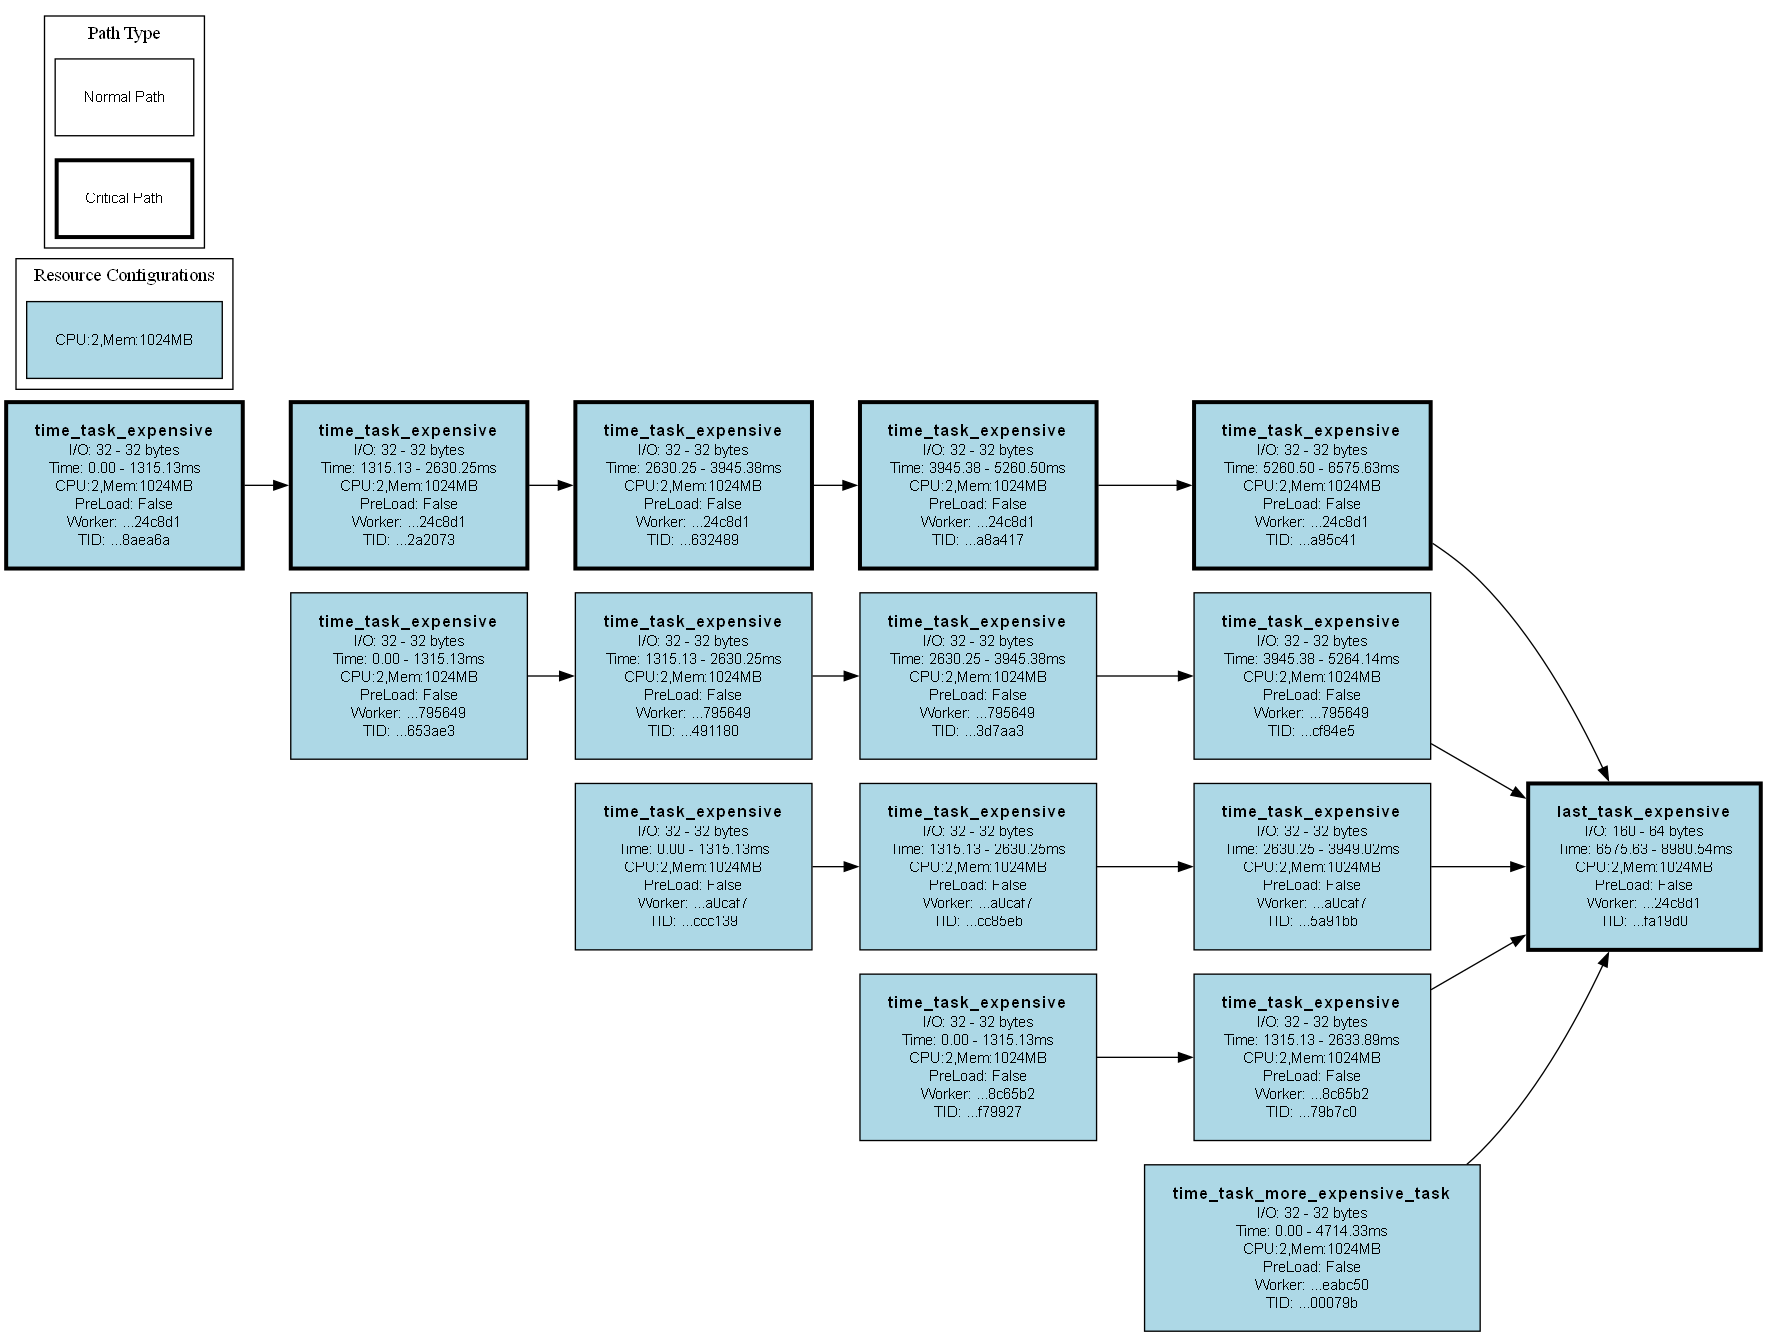
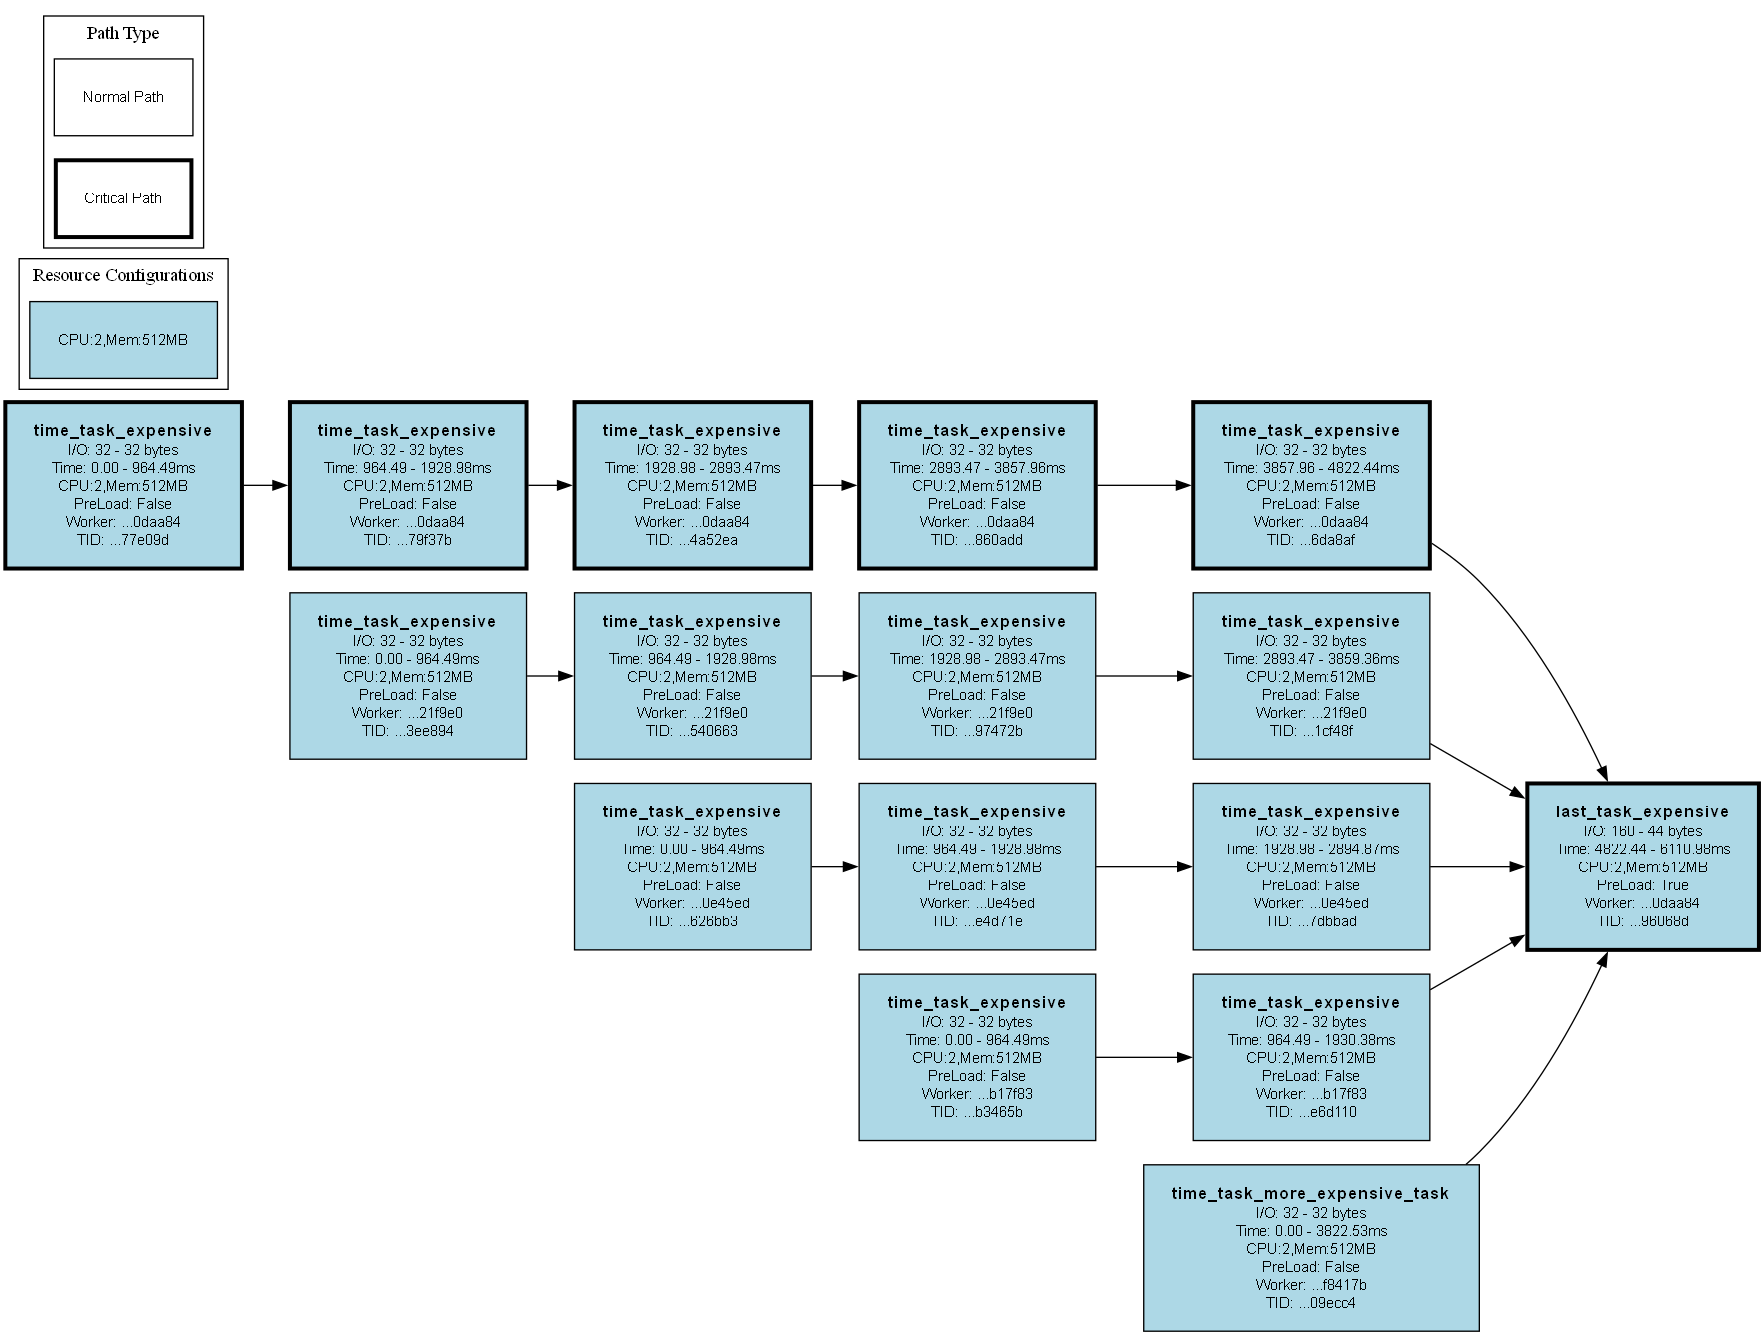
small refactor

diff --git a/src/planning/abstract_dag_planner.py b/src/planning/abstract_dag_planner.py
@@ -124,7 +124,7 @@ class AbstractDAGPlanner(ABC, WorkerExecutionLogic):
 
         return total_input_size
     
-    def __calculate_node_timings_for_node(self, nodes_info: dict[str, PlanningTaskInfo], node: DAGTaskNode, resource_config: TaskWorkerResourceConfiguration, metadata_access: MetadataAccess, sla: SLA):
+    def __calculate_node_timings(self, nodes_info: dict[str, PlanningTaskInfo], node: DAGTaskNode, resource_config: TaskWorkerResourceConfiguration, metadata_access: MetadataAccess, sla: SLA):
         node_id = node.id.get_full_id()
         worker_id = node.get_annotation(TaskWorkerResourceConfiguration).worker_id
         total_input_size = self._calculate_total_input_size(node, nodes_info)
@@ -192,7 +192,7 @@ class AbstractDAGPlanner(ABC, WorkerExecutionLogic):
         nodes_info: dict[str, AbstractDAGPlanner.PlanningTaskInfo] = {}
         for node in topo_sorted_nodes:
             # note: modifies `nodes_info`
-            self.__calculate_node_timings_for_node(nodes_info, node, resource_config, metadata_access, sla)
+            self.__calculate_node_timings(nodes_info, node, resource_config, metadata_access, sla)
             
         return nodes_info
     
@@ -205,7 +205,7 @@ class AbstractDAGPlanner(ABC, WorkerExecutionLogic):
         for node in topo_sorted_nodes:
             resource_config = node.get_annotation(TaskWorkerResourceConfiguration)
             # note: modifies `nodes_info`
-            self.__calculate_node_timings_for_node(nodes_info, node, resource_config, metadata_access, sla)
+            self.__calculate_node_timings(nodes_info, node, resource_config, metadata_access, sla)
 
         return nodes_info
     

diff --git a/_examples/original/dagforpredictions_expensive_computations.py b/_examples/original/dagforpredictions_expensive_computations.py
@@ -31,10 +31,9 @@ dockerWorkerConfig = DockerWorker.Config(
     docker_gateway_address="http://localhost:5000",
     intermediate_storage_config=redis_intermediate_storage_config,
     metrics_storage_config=MetricsStorage.Config(storage_config=redis_metrics_storage_config),
-    planner_config=SimplePlannerAlgorithm.Config(
+    planner_config=FirstPlannerAlgorithm.Config(
         sla="avg",
-        all_flexible_workers=False,
-        worker_resource_configuration=TaskWorkerResourceConfiguration(cpus=2, memory_mb=1024),
+        worker_resource_configuration=TaskWorkerResourceConfiguration(cpus=2, memory_mb=512),
         # worker_resource_configuration=TaskWorkerResourceConfiguration(cpus=2, memory_mb=256),
         # available_worker_resource_configurations=[
         #     TaskWorkerResourceConfiguration(cpus=2, memory_mb=256),

diff --git a/src/planning/first_planner_algorithm.py b/src/planning/first_planner_algorithm.py
@@ -161,7 +161,7 @@ class FirstPlannerAlgorithm(AbstractDAGPlanner):
         logger.info(f"Critical Path | Nr. Nodes: {len(final_critical_path_nodes)}, Predicted Completion Time: {final_critical_path_time} ms")
         logger.info(f"Number of PreLoad optimizations: {total_preload_optimizations}")
         logger.info(f"Number of unique workers: {len(unique_worker_ids)}")
-        logger.info(f"Worker Resource Configuration (same for all tasks): {self.config.worker_resource_configuration}")
+        logger.info(f"Worker Resource Configuration (same for all tasks): (cpus={self.config.worker_resource_configuration.cpus}, memory={self.config.worker_resource_configuration.memory_mb})")
 
         return AbstractDAGPlanner.PlanOutput(final_nodes_info, final_critical_path_node_ids)
 

diff --git a/src/planning/simple_planner_algorithm.py b/src/planning/simple_planner_algorithm.py
@@ -77,7 +77,7 @@ class SimplePlannerAlgorithm(AbstractDAGPlanner):
         logger.info(f"=== FINAL RESULTS ===")
         logger.info(f"Critical Path | Nr. Nodes: {len(final_critical_path_nodes)}, Predicted Completion Time: {final_critical_path_time} ms")
         logger.info(f"Number of unique workers: {len(unique_worker_ids)}")
-        logger.info(f"Worker Resource Configuration (same for all tasks): {self.config.worker_resource_configuration}")
+        logger.info(f"Worker Resource Configuration (same for all tasks): (cpus={self.config.worker_resource_configuration.cpus}, memory={self.config.worker_resource_configuration.memory_mb})")
 
         return AbstractDAGPlanner.PlanOutput(final_nodes_info, final_critical_path_node_ids)
     

diff --git a/TODO.md b/TODO.md
@@ -1,8 +1,5 @@
 [ISSUE] Planners predictions are not very accurate with reality!
-    1 => Experiment with simple planner (change resource configs, then change flexible workers to struct workers). run multiple times
-        Try to make the normalized predictions NON-LINEAR, so that reducing the resources by half won't predict half the resources
-            DELETE ALL METADATA, then experiment with 512mb vs 256mb
-        Offset causes:
+    1 => Experiment with simple planner (change flexible workers to struct workers)
     2 => experiment with `FirstPlannerAlgorithm` w/o PreLoad
     3 => experiment with `FirstPlannerAlgorithm` w/ PreLoad
     4 => experiment with `SecondPlannerAlgorithm`
